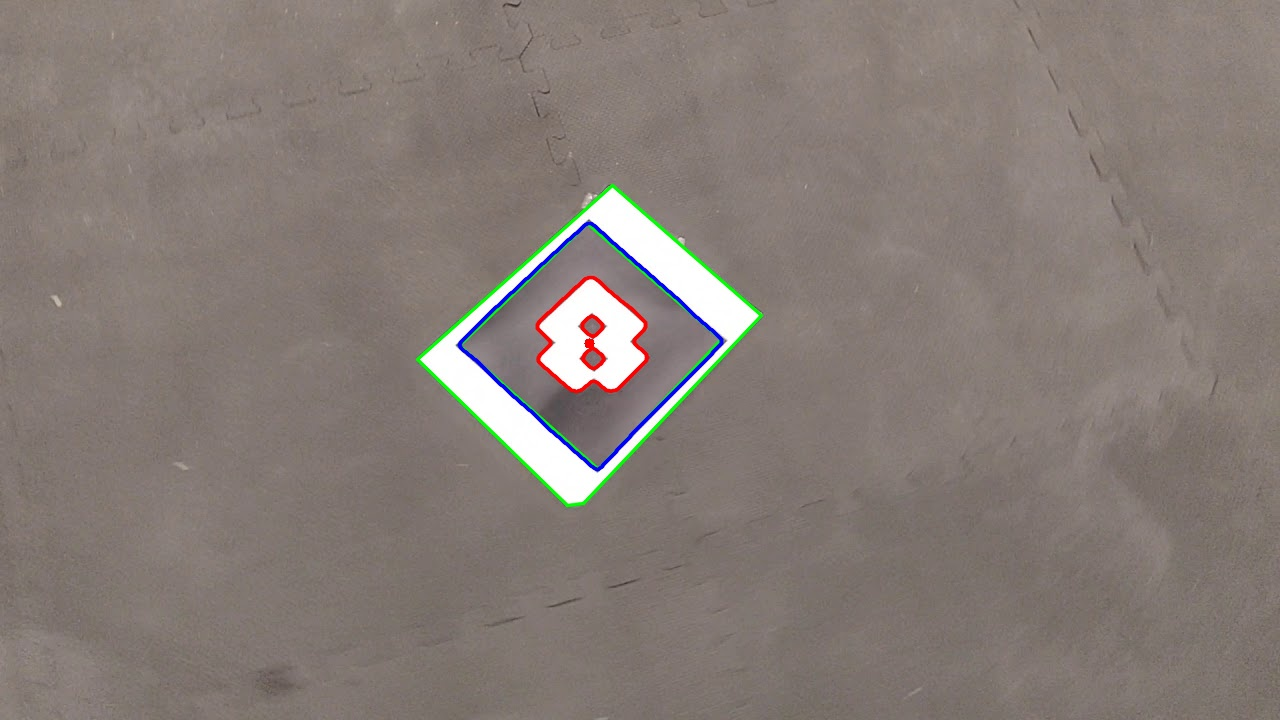
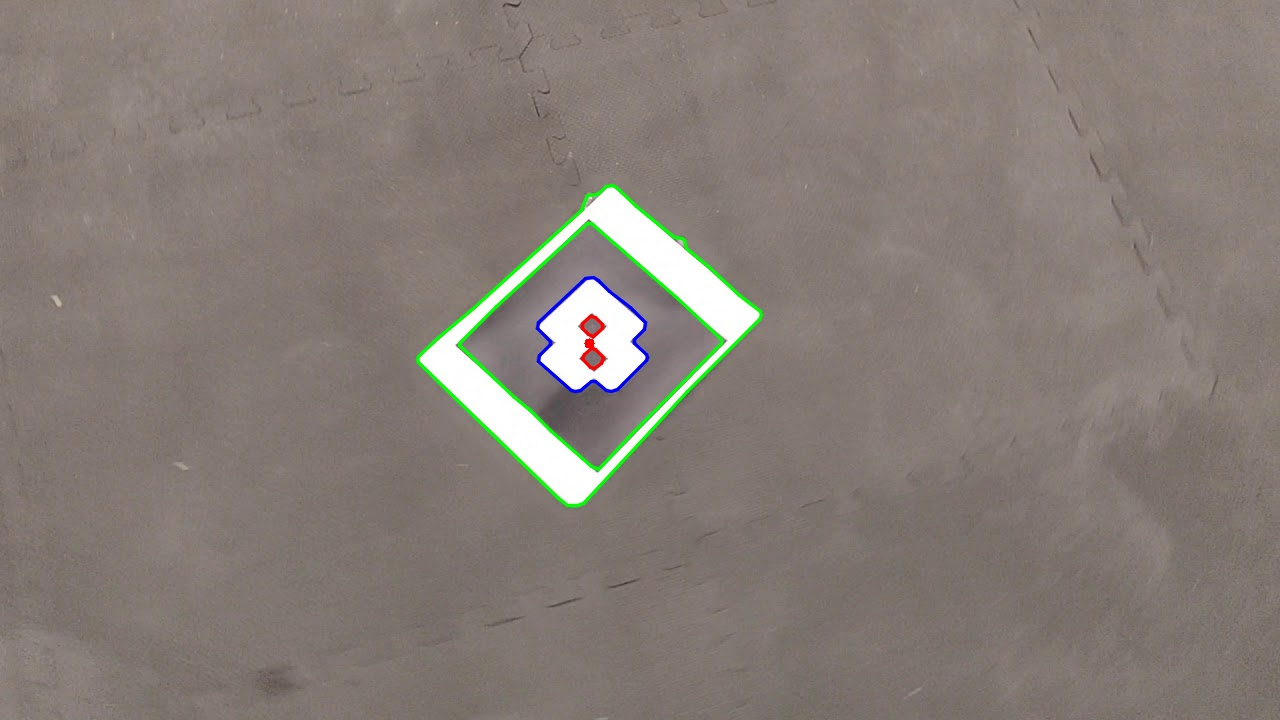
Video AR Detection
Added AR detection from camera feed and put image ar detection into separate file.

Changed region(s): [[0.3125, 0.2444, 0.5938, 0.7028], [0.375, 0.55, 0.4375, 0.6417], [0.4688, 0.4583, 0.5, 0.4889]]

diff --git a/src/artag/artag/artagdetection.py b/src/artag/artag/artagdetection.py
@@ -1,82 +1,101 @@
 import numpy as np
-import cv2
- 
-# read the image
-image = cv2.imread('src\\artag\\artag\input\image_1.jpg')
+import cv2 as cv
 
-# convert the image to grayscale format
-img_gray = cv2.cvtColor(image, cv2.COLOR_BGR2GRAY)
-
-# apply blurring to image to remove noise
-img_gray = cv2.blur(img_gray, (5, 5))
-img_gray = cv2.GaussianBlur(img_gray, (5, 5), 0)
-img_gray = cv2.medianBlur(img_gray, 5)
-img_gray = cv2.bilateralFilter(img_gray,9,75,75)
-
-# apply binary thresholding
-ret, thresh = cv2.threshold(img_gray, 150, 255, cv2.THRESH_BINARY)
-
-# visualize the binary image before contours
-cv2.imshow('Binary image', thresh)
-cv2.waitKey(0)
-cv2.imwrite('image_thres1.jpg', thresh)
-cv2.destroyAllWindows()
-
-# detect the contours on the binary image using cv2.CHAIN_APPROX_NONE
-
-contours, hierarchy = cv2.findContours(image=thresh, mode=cv2.RETR_TREE, method=cv2.CHAIN_APPROX_NONE)
-                                      
 # Function to draw hierarchy lines
-def draw_hierarchy_lines(contours, hierarchy, parent_idx, color):
-    for i in range(len(contours)):
-        if hierarchy[0][i][3] == parent_idx:
-            cv2.drawContours(image_copy, contours, i, color, 2, cv2.LINE_AA)
+def draw_hierarchy_lines(contours, hierarchy, parent_idx, color, image):
+    for i, contour in enumerate(contours):
+        if hierarchy[0][i-1][3] == parent_idx:
+            cv.drawContours(image, contours, i, color, 2, cv.LINE_AA)
+            
+def straighten_contours(contours, epsilon):
+    straightened_contours = []
+    for contour in contours:
+        # Approximate contour using the Ramer-Douglas-Peucker algorithm
+        approx = cv.approxPolyDP(contour, epsilon, True)
+        straightened_contours.append(approx)
+    return straightened_contours
 
-# Function to turn contours into straight lines
+# Function that filters contours based on area
+def filter_contour(contour):
+    filtered_contours = []
+    min_area_threshold = 150  # Adjust this value as needed
+    for contour in contours:
+        area = cv.contourArea(contour)
+        if min_area_threshold < area:
+            filtered_contours.append(contour)
+    return filtered_contours
 
-def straighten_contour(contour):
-    epsilon = 0.01 * cv2.arcLength(contour, True) # Adjust epsilon as needed
-    approx = cv2.approxPolyDP(contour, epsilon, True)
-    return approx
+cap = cv.VideoCapture(0)
+if not cap.isOpened():
+    print("Cannot open camera")
+    exit()
+while True:
+    ret, frame = cap.read()
+    frame_height, frame_width = frame.shape[:2]
+    if not ret:
+        print("Can't receive frame")
+        break
+    gray = cv.cvtColor(frame, cv.COLOR_BGR2GRAY)
+    gray = cv.blur(gray, (5, 5))
+    gray = cv.GaussianBlur(gray, (5, 5), 0)
+    gray = cv.medianBlur(gray, 5)
+    gray = cv.bilateralFilter(gray,9,75,75)
+    ret, thresh = cv.threshold(gray, 150, 255, cv.THRESH_BINARY)
+    contours, hierarchy = cv.findContours(image=thresh, mode=cv.RETR_TREE, method=cv.CHAIN_APPROX_NONE)
+    contours = filter_contour(contours)
+    contours = straighten_contours(contours, .75)
+    square_contours = [c for c in contours if len(cv.approxPolyDP(c, 0.02*cv.arcLength(c, True), True)) == 4]
+    inner_contours = []
+    for square_contour in square_contours:
+        inner = []
+        for contour in contours:
+            if contour is not square_contour:
+                M = cv.moments(contour)
+                cx = int(M['m10'] / M['m00'])
+                cy = int(M['m01'] / M['m00'])
+                # Check if the centroid lies inside the square contour
+                if cv.pointPolygonTest(square_contour, (cx, cy), False) > 0:
+                    inner.append(contour)
+        inner_contours.extend(inner)
+    contours = square_contours
+    contours.extend(inner_contours)
 
-# Filter contours based on area
-filtered_contours = []
-min_area_threshold = 150  # Adjust this value as needed
-for contour in contours:
-    area = cv2.contourArea(contour)
-    if min_area_threshold < area:
-        filtered_contours.append(contour)
+    #Broken code to try to differentiate hierarchy by color
+    # Draw straightened contours
+    # for i, contour in enumerate(contours):       
+    #     parent_idx = hierarchy[0][i][3]  # Get the index of the parent contour
+    #     if parent_idx == -1:
+    #         cv.drawContours(image=frame, contours=contours, contourIdx=-1, color=(0, 255, 0), thickness=2, lineType=cv.LINE_AA)
+    #     else:
+    #         if parent_idx == 1:
+    #             draw_hierarchy_lines(contours, hierarchy, parent_idx, (255, 0, 0), frame)
+    #             continue
+    #         else:
+    #             draw_hierarchy_lines(contours, hierarchy, parent_idx, (0, 0, 255), frame)
+    #             continue
 
-# Draw contours on the original image
-image_copy = image
-
-# Draw straightened contours
-for i, contour in enumerate(filtered_contours):
-    straight_contour = straighten_contour(contour)
-    
-    parent_idx = hierarchy[0][i][3]  # Get the index of the parent contour
-    if parent_idx == -1:
-        cv2.drawContours(image=image_copy, contours=[straight_contour], contourIdx=-1, color=(0, 255, 0), thickness=2, lineType=cv2.LINE_AA)
-    else:
-        if parent_idx == 1:
-            draw_hierarchy_lines(contours, hierarchy, parent_idx, (255, 0, 0))
+    cv.drawContours(image=frame, contours=contours, contourIdx=-1, color=(0, 255, 0), thickness=2, lineType=cv.LINE_AA)
+    # Calculate the center coordinates of the largest contour
+    if len(contours) > 0:
+        largest_contour = max(contours, key=lambda c: cv.contourArea(c) / (frame_width * frame_height))
+        #largest_contour = max(contours, key=lambda c: cv.contourArea(c) / cv.arcLength(c, True)**2)
+        #largest_contour = max(contours, key=cv.contourArea)
+        M = cv.moments(largest_contour)
+        cx = int(M['m10'] / M['m00'])
+        cy = int(M['m01'] / M['m00'])
+        # Draw a circle at the center of the contour
+        cv.circle(frame, (cx, cy), 5, (0, 0, 255), -1)
+        # Print the coordinates of the center
+        if cx < frame_width // 2:
+            print("Left")
         else:
-            draw_hierarchy_lines(contours, hierarchy, parent_idx, (0, 0, 255))
+            print("Right")
 
-# Calculate the center coordinates of the largest contour
-if len(contours) > 0:
-    #largest_contour = max(contours, key=cv2.contourArea)
-    largest_contour = max(contours, key=cv2.contourArea)
-    M = cv2.moments(largest_contour)
-    cx = int(M['m10'] / M['m00'])
-    cy = int(M['m01'] / M['m00'])
-    # Draw a circle at the center of the contour
-    cv2.circle(image_copy, (cx, cy), 5, (0, 0, 255), -1)
-    # Print the coordinates of the center
-    print("Center coordinates (x, y):", cx, cy)
+        #print("Center coordinates (x, y):", cx, cy)
+    
 
-# see the results
-cv2.imshow('None approximation', image_copy)
-cv2.waitKey(0)
-cv2.imwrite('contours_none_image1.jpg', image_copy)
-cv2.destroyAllWindows()
+    #cv.imshow('frame', gray)
+    #cv.imshow('Binary image', thresh)
+    cv.imshow('None approximation', frame)
+    if cv.waitKey(1) == ord('q'):
+        break

diff --git a/src/artag/artag/artagdetectionimage.py b/src/artag/artag/artagdetectionimage.py
@@ -1,0 +1,84 @@
+import numpy as np
+import cv2 as cv
+
+# Function to draw hierarchy lines
+def draw_hierarchy_lines(contours, hierarchy, parent_idx, color, image):
+    for i in range(len(contours)):
+        if hierarchy[0][i][3] == parent_idx:
+            cv.drawContours(image, contours, i, color, 2, cv.LINE_AA)
+            
+def straighten_contours(contours, epsilon):
+    straightened_contours = []
+    for contour in contours:
+        # Approximate contour using the Ramer-Douglas-Peucker algorithm
+        approx = cv.approxPolyDP(contour, epsilon, True)
+        straightened_contours.append(approx)
+    return straightened_contours
+
+# Function that filters contours based on area
+def filter_contours(contour):
+    filtered_contours = []
+    min_area_threshold = 150  # Adjust this value as needed
+    for contour in contours:
+        area = cv.contourArea(contour)
+        if min_area_threshold < area:
+            filtered_contours.append(contour)
+    return filtered_contours
+
+# read the image
+image = cv.imread('src\\artag\\artag\\input\\image_1.jpg')
+
+# convert the image to grayscale format
+img_gray = cv.cvtColor(image, cv.COLOR_BGR2GRAY)
+
+# apply blurring to image to remove noise
+img_gray = cv.blur(img_gray, (5, 5))
+img_gray = cv.GaussianBlur(img_gray, (5, 5), 0)
+img_gray = cv.medianBlur(img_gray, 5)
+img_gray = cv.bilateralFilter(img_gray,9,75,75)
+
+# apply binary thresholding
+ret, thresh = cv.threshold(img_gray, 150, 255, cv.THRESH_BINARY)
+
+# visualize the binary image before contours
+cv.imshow('Binary image', thresh)
+cv.waitKey(0)
+cv.imwrite('image_thres1.jpg', thresh)
+cv.destroyAllWindows()
+
+# detect the contours on the binary image using cv.CHAIN_APPROX_NONE
+
+contours, hierarchy = cv.findContours(image=thresh, mode=cv.RETR_TREE, method=cv.CHAIN_APPROX_NONE)
+
+# Draw contours on the original image
+image_copy = image
+contours = filter_contours(contours)
+contours = straighten_contours(contours, .99)
+# Draw straightened contours
+for i, contour in enumerate(contours):    
+    parent_idx = hierarchy[0][i][3]  # Get the index of the parent contour
+    if parent_idx == -1:
+        cv.drawContours(image=image_copy, contours=[contour], contourIdx=-1, color=(0, 255, 0), thickness=2, lineType=cv.LINE_AA)
+    else:
+        if parent_idx == 1:
+            draw_hierarchy_lines(contours, hierarchy, parent_idx, (255, 0, 0), image_copy)
+        else:
+            draw_hierarchy_lines(contours, hierarchy, parent_idx, (0, 0, 255), image_copy)
+
+# Calculate the center coordinates of the largest contour
+if len(contours) > 0:
+    #largest_contour = max(contours, key=cv.contourArea)
+    largest_contour = max(contours, key=cv.contourArea)
+    M = cv.moments(largest_contour)
+    cx = int(M['m10'] / M['m00'])
+    cy = int(M['m01'] / M['m00'])
+    # Draw a circle at the center of the contour
+    cv.circle(image_copy, (cx, cy), 5, (0, 0, 255), -1)
+    # Print the coordinates of the center
+    print("Center coordinates (x, y):", cx, cy)
+
+# see the results
+cv.imshow('None approximation', image_copy)
+cv.waitKey(0)
+cv.imwrite('contours_none_image1.jpg', image_copy)
+cv.destroyAllWindows()
